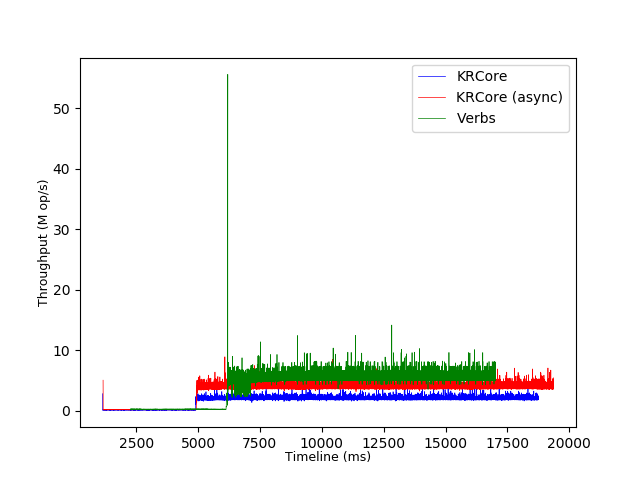
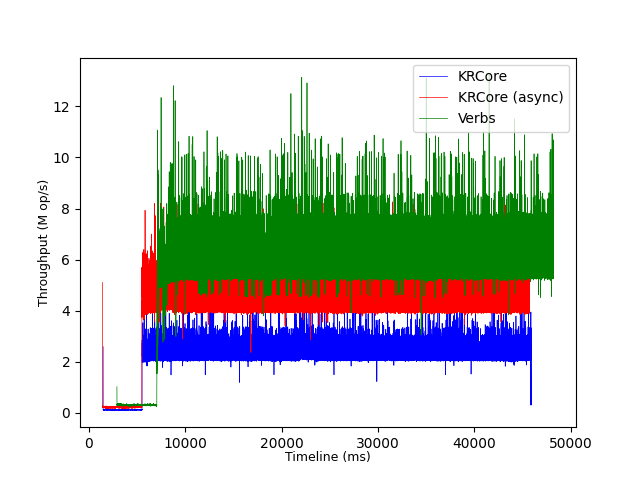
update scripts

diff --git a/exp_scripts/figures/racehasing_analyser.py b/exp_scripts/figures/racehasing_analyser.py
@@ -51,6 +51,10 @@ def analyse(file_path):
         data = np.transpose(data)
         # df = pd.DataFrame(data, columns=['epoch', 'thpt'])
         # df.to_excel('race-hasing.xlsx')
+        for i in range(5):
+            maxindex = np.argmax(thpts)
+            thpts = np.delete(thpts, maxindex)
+            epochs = np.delete(epochs, maxindex)
 
         return epochs, thpts, trigger_line
 
